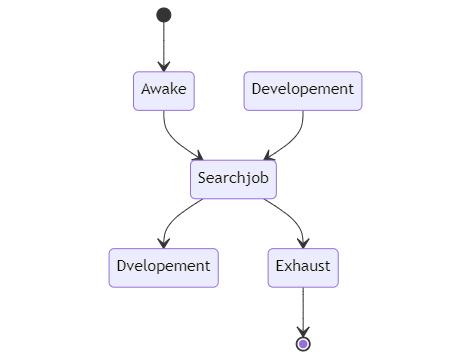
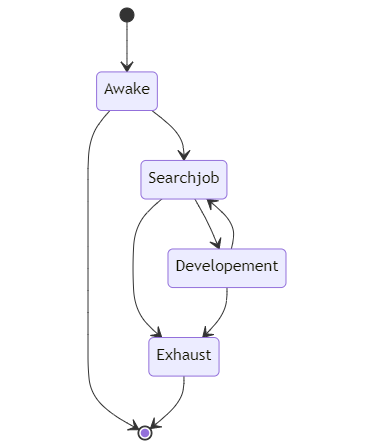
updated state-diagram

diff --git a/README.md b/README.md
@@ -80,10 +80,13 @@ pie title Daily Routine
 stateDiagram-v2
     [*] --> Awake    
     Awake --> Searchjob
-    Searchjob --> Dvelopement
+    Awake -->[*]
+    Searchjob --> Developement
     Developement --> Searchjob
     Searchjob --> Exhaust
+    Developement --> Exhaust    
     Exhaust --> [*]
+
             
 ```
 
